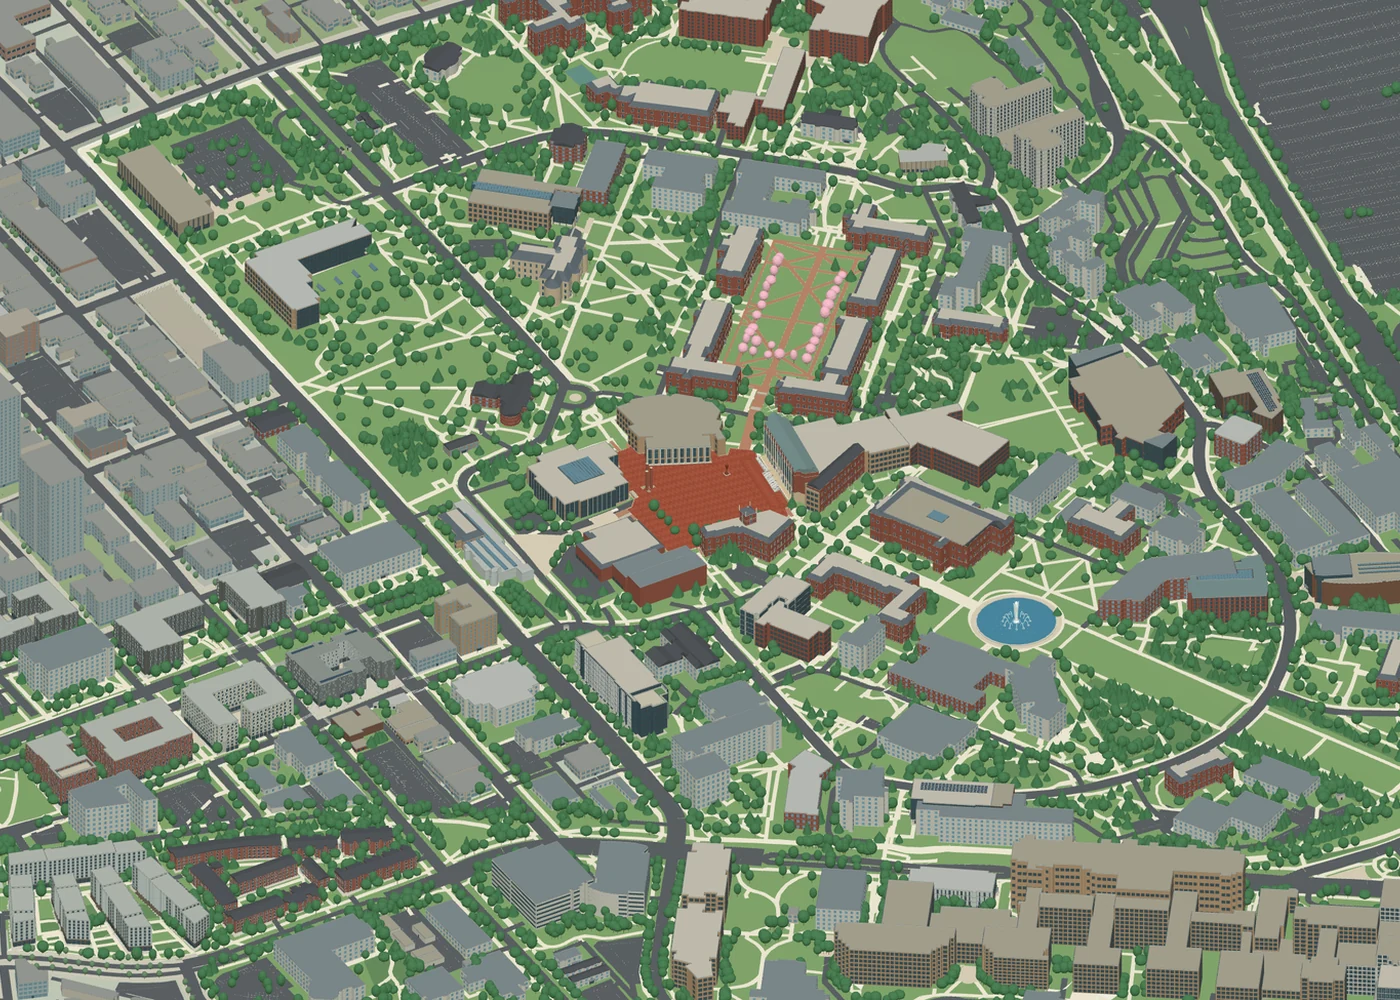
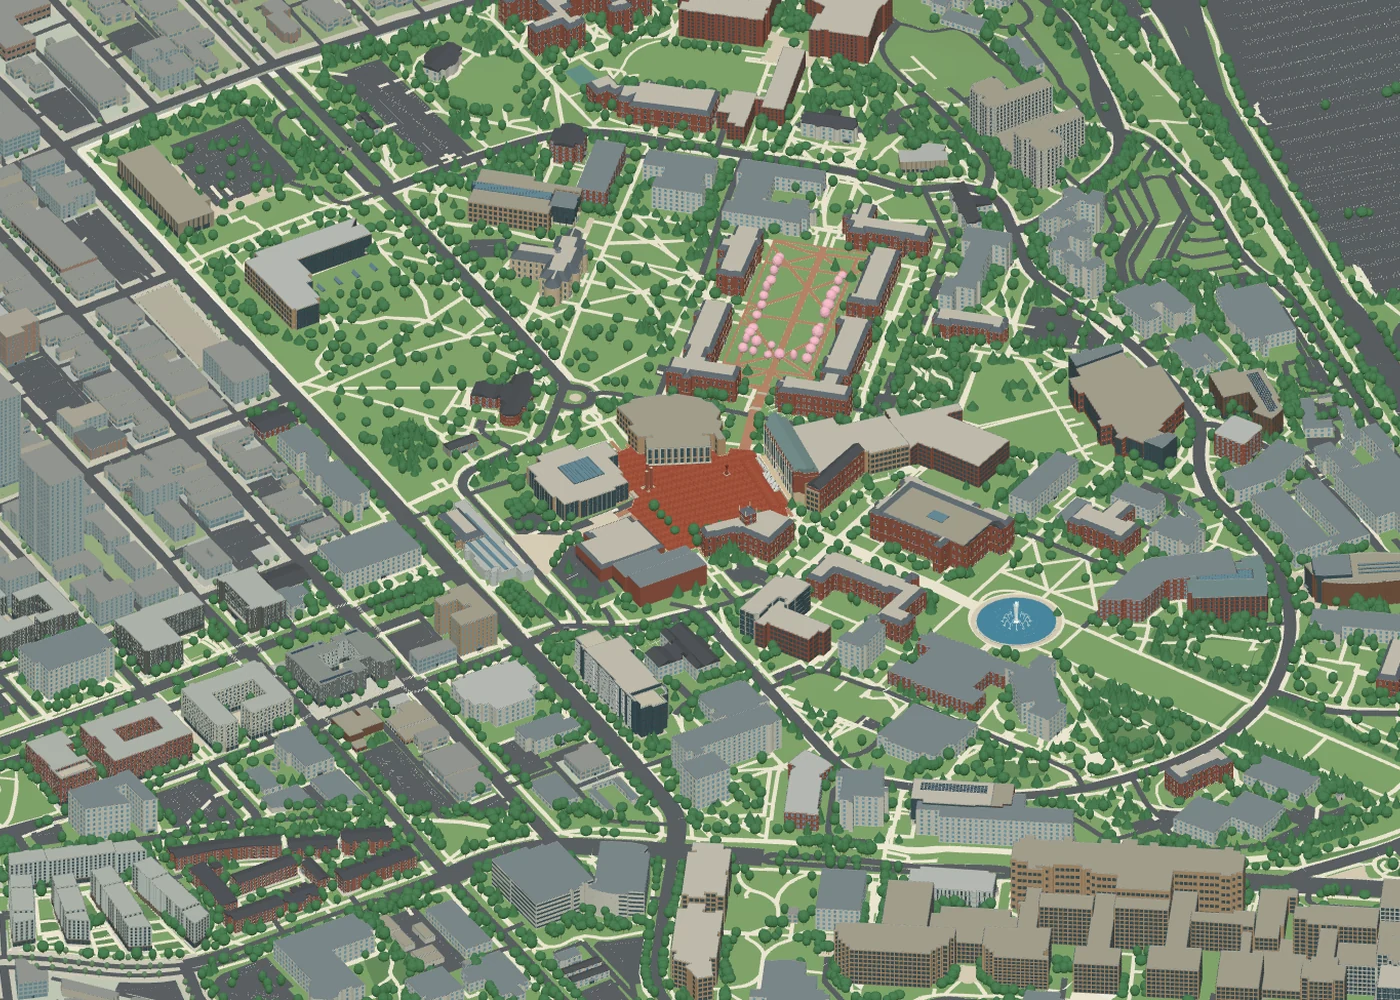
Release 26.10.16.2

diff --git a/index.html b/index.html
@@ -1,7 +1,7 @@
 <!doctype html>
 <html lang="en"><head><meta charset="utf-8"><meta name="viewport" content="width=device-width,initial-scale=1"><meta name="color-scheme" content="light"><meta name="theme-color" content="#f7f8f8">
 <title>Campus 3D Models | Explore Four University Campuses</title><meta name="description" content="Explore UChicago, UMich, UW and UC Santa Barbara through interactive 3D campus models. Discover architecture, landscapes, and layered Rhino and 3DS downloads."><meta name="robots" content="index,follow,max-image-preview:large"><link rel="canonical" href="https://arch.songming.org/">
-<meta property="og:type" content="website"><meta property="og:site_name" content="Campus 3D Models"><meta property="og:title" content="Campus 3D Models"><meta property="og:description" content="Four campuses. A different perspective. Explore UChicago, UMich, UW and UC Santa Barbara in 3D."><meta property="og:url" content="https://arch.songming.org/"><meta property="og:locale" content="en_US"><meta property="og:locale:alternate" content="zh_CN"><meta property="og:image" content="https://arch.songming.org/assets/images/social-preview.png?v=26.10.16.1"><meta property="og:image:width" content="1200"><meta property="og:image:height" content="630"><meta property="og:image:alt" content="Four architectural campus model previews from the Campus 3D Models collection."><meta name="twitter:card" content="summary_large_image"><meta name="twitter:title" content="Campus 3D Models"><meta name="twitter:description" content="Four campuses. A different perspective."><meta name="twitter:image" content="https://arch.songming.org/assets/images/social-preview.png?v=26.10.16.1">
+<meta property="og:type" content="website"><meta property="og:site_name" content="Campus 3D Models"><meta property="og:title" content="Campus 3D Models"><meta property="og:description" content="Four campuses. A different perspective. Explore UChicago, UMich, UW and UC Santa Barbara in 3D."><meta property="og:url" content="https://arch.songming.org/"><meta property="og:locale" content="en_US"><meta property="og:locale:alternate" content="zh_CN"><meta property="og:image" content="https://arch.songming.org/assets/images/social-preview.png?v=26.10.16.2"><meta property="og:image:width" content="1200"><meta property="og:image:height" content="630"><meta property="og:image:alt" content="Four architectural campus model previews from the Campus 3D Models collection."><meta name="twitter:card" content="summary_large_image"><meta name="twitter:title" content="Campus 3D Models"><meta name="twitter:description" content="Four campuses. A different perspective."><meta name="twitter:image" content="https://arch.songming.org/assets/images/social-preview.png?v=26.10.16.2">
 <link rel="icon" type="image/svg+xml" href="assets/brand/atlas.svg"><link rel="icon" type="image/png" sizes="32x32" href="assets/brand/icon-32.png"><link rel="apple-touch-icon" href="assets/brand/apple-touch-icon.png"><link rel="stylesheet" href="assets/site.css?v=26.10.15.7"><script defer src="assets/site.js"></script><script type="application/ld+json" id="schema">{"@context":"https://schema.org","@graph":[{"@type":"WebSite","@id":"https://arch.songming.org/#website","url":"https://arch.songming.org/","name":"Campus 3D Models","inLanguage":["en","zh-CN"]},{"@type":"CollectionPage","@id":"https://arch.songming.org/#collection","url":"https://arch.songming.org/","name":"Campus 3D Models","description":"Explore interactive 3D campus models of UChicago, UMich, UW and UC Santa Barbara.","isPartOf":{"@id":"https://arch.songming.org/#website"},"mainEntity":{"@type":"ItemList","numberOfItems":4,"itemListElement":[{"@type":"ListItem","position":1,"name":"University of Chicago","url":"https://uchi.arch.songming.org/"},{"@type":"ListItem","position":2,"name":"University of Michigan","url":"https://umich.arch.songming.org/"},{"@type":"ListItem","position":3,"name":"University of Washington","url":"https://uw.arch.songming.org/"},{"@type":"ListItem","position":4,"name":"UC Santa Barbara","url":"https://ucsb.arch.songming.org/"}]}}]}</script></head>
 <body id="top">
 <a href="#campuses" class="skip-link" data-i18n="skip">Skip to campus collection</a>
@@ -20,7 +20,7 @@
  <p class="project-features" data-i18n="umich.features">The Diag · North Campus · Medical & Athletic campuses</p><span class="project-link"><span data-i18n="open">View model</span><span class="model-arrow" aria-hidden="true"><svg viewBox="0 0 16 24" width="16" height="24" focusable="false"><path d="M3 18 13 7M5.5 7H13v7.5"/></svg></span></span>
 </a><a class="campus-card" href="https://uw.arch.songming.org/" target="_blank" rel="noopener" data-campus="uw" id="project-uw" aria-label="View University of Washington model (opens in a new tab)">
  <div class="project-line"><span class="project-number">03</span><span data-i18n="uw.location">Seattle, Washington</span><span class="project-mark" aria-hidden="true"><svg viewBox="0 0 24 24" aria-hidden="true"><path d="M5 19 19 5M5 5h14v14"/></svg></span></div>
- <div class="card-image"><img src="assets/images/uw-small.webp?v=26.10.16.1" srcset="assets/images/uw-small.webp?v=26.10.16.1 700w, assets/images/uw.webp?v=26.10.16.1 1400w" sizes="(max-width: 700px) 100vw, 50vw" width="1400" height="1000" alt="3D exterior model of the University of Washington campus" loading="lazy" decoding="async"></div>
+ <div class="card-image"><img src="assets/images/uw-small.webp?v=26.10.16.2" srcset="assets/images/uw-small.webp?v=26.10.16.2 700w, assets/images/uw.webp?v=26.10.16.2 1400w" sizes="(max-width: 700px) 100vw, 50vw" width="1400" height="1000" alt="3D exterior model of the University of Washington campus" loading="lazy" decoding="async"></div>
  <div class="project-caption"><h3 data-i18n="uw.name">University of Washington</h3><span data-i18n="uw.campus">Seattle campus</span></div>
  <p class="project-features" data-i18n="uw.features">Red Square · The Quad · Lakefront landscapes</p><span class="project-link"><span data-i18n="open">View model</span><span class="model-arrow" aria-hidden="true"><svg viewBox="0 0 16 24" width="16" height="24" focusable="false"><path d="M3 18 13 7M5.5 7H13v7.5"/></svg></span></span>
 </a><a class="campus-card" href="https://ucsb.arch.songming.org/" target="_blank" rel="noopener" data-campus="ucsb" id="project-ucsb" aria-label="View UC Santa Barbara model (opens in a new tab)">

diff --git a/docs/ASSET_SOURCES.md b/docs/ASSET_SOURCES.md
@@ -4,7 +4,7 @@ Campus previews are exported renders from the corresponding local campus project
 
[5 lines of base64/hex data omitted]
 
 The website uses system Helvetica/Arial and Chinese system fonts. Manrope is retained for raster share-image generation under the SIL Open Font License. Legacy font assets keep their accompanying licenses. The monochrome atlas mark is an original SVG made for this project.

diff --git a/CHANGELOG.md b/CHANGELOG.md
@@ -1,5 +1,10 @@
 # Changelog
 
+## 26.10.16.2 — 2026-10-16
+
+- Refresh the UW desktop/mobile collection previews and share-image tile from the latest model, including the corrected West Gatehouse and traffic island.
+- Preserve the established Core camera direction, scale, target and crop; refresh image cache versions and retain the lossless source render with model provenance.
+
 ## 26.10.16.1 — 2026-10-16
 
 - Refresh the UW collection thumbnails and its share-image tile using the current refined model, including the updated Suzzallo entrance and campus highlights.
